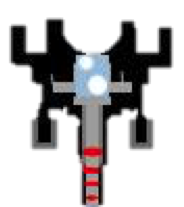
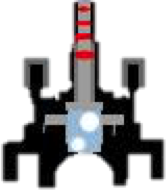
Added angle to vector2 method in DynamicEntity. Flipped enemyShip sprite.

diff --git a/core/src/com/mygdx/spacex/Ship.java b/core/src/com/mygdx/spacex/Ship.java
@@ -82,20 +82,9 @@ public abstract class Ship extends DynamicEntity {
 			// Get location of ship, and create a spawn point for shot.
 			Vector2 start = new Vector2(getX(), getY());
 			
-			// dirty fix for now, while i figure this out? ok?yea of course
-			// Pass in start point, velocity of the shot, and world it belongs to.
-			if (getClass() == Player.class) {
-				shots.add(new Shot(start, new Vector2(0, 1), shipType, batch, world));
-			}
-			if (getClass() == EnemyShip.class) {
-				Vector2 target = new Vector2();
-				target.x = getX() - world.get(0).getX();
-				target.y = getY() - world.get(0).getY();
-				shots.add(new Shot(start, target, shipType, batch, world));
-			}
-			// ok, figure this out tomorrow, ill research it lool
-			//math +poop there's some fun to it lmaao ok im gonna call it talk to u tomorrow
+			float rotation = getRotation() + 90f;
 			
+			shots.add(new Shot(start, rotation, shipType, batch, world));
 		
 			// Set shot ready to false to prevent spam.
 			shotReady = false;
@@ -111,7 +100,7 @@ public abstract class Ship extends DynamicEntity {
 			
 		}
 
-	}
+	} 
 	
 	@Override
 	protected void dispose() {

diff --git a/core/src/com/mygdx/spacex/Shot.java b/core/src/com/mygdx/spacex/Shot.java
@@ -8,6 +8,7 @@ import java.util.ArrayList;
 import com.badlogic.gdx.graphics.Texture;
 import com.badlogic.gdx.graphics.g2d.SpriteBatch;
 import com.badlogic.gdx.math.GeometryUtils;
+import com.badlogic.gdx.math.MathUtils;
 import com.badlogic.gdx.math.Rectangle;
 
 import com.badlogic.gdx.math.Vector2;
@@ -17,7 +18,7 @@ public class Shot extends DynamicEntity {
 	// 0: player shot, 1: enemy shot, .. etc.
 	protected int type;
 	
-	public Shot(Vector2 start, Vector2 target, int type, SpriteBatch batch, ArrayList<Entity> world)
+	public Shot(Vector2 start, float rotation, int type, SpriteBatch batch, ArrayList<Entity> world)
 	{
 		super(new Texture("laser.jpg"), start, batch, world);
 		horizontalSpeed = 10f;
@@ -25,9 +26,8 @@ public class Shot extends DynamicEntity {
 		
 		// Set the type of shot.
 		this.type = type;
-
-		velocity = target;
-		System.out.println(velocity.toString());
+		
+		setVelocityToAngle(rotation);
 		
 		// might change this later.
 		setScale(10f, 20f);

diff --git a/core/src/com/mygdx/spacex/DynamicEntity.java b/core/src/com/mygdx/spacex/DynamicEntity.java
@@ -10,6 +10,7 @@ import java.util.ArrayList;
 
 import com.badlogic.gdx.graphics.Texture;
 import com.badlogic.gdx.graphics.g2d.SpriteBatch;
+import com.badlogic.gdx.math.MathUtils;
 import com.badlogic.gdx.math.Vector2;
 
 public abstract class DynamicEntity extends Entity {
@@ -56,6 +57,13 @@ public abstract class DynamicEntity extends Entity {
 	protected void draw() {
 		// TODO Auto-generated method stub
 		super.draw();
+	}
+	
+	protected void setVelocityToAngle (float angle) {
+		// Set velocity towards an angle.
+		velocity.x = MathUtils.cos(angle * MathUtils.degreesToRadians);
+		velocity.y = MathUtils.sin(angle * MathUtils.degreesToRadians);
+		velocity.nor();
 	}
 	
 	

diff --git a/core/src/com/mygdx/spacex/Player.java b/core/src/com/mygdx/spacex/Player.java
@@ -35,7 +35,7 @@ public class Player extends Ship {
 				velocity.y = 1;
 			if (Gdx.input.isKeyPressed(Keys.DOWN))
 				velocity.y = -1;
-
+			
 			// Negate.
 			if (Gdx.input.isKeyPressed(Keys.LEFT) && Gdx.input.isKeyPressed(Keys.RIGHT))
 				velocity.x = 0;

diff --git a/core/src/com/mygdx/spacex/EnemyShip.java b/core/src/com/mygdx/spacex/EnemyShip.java
@@ -12,6 +12,8 @@ public class EnemyShip extends Ship {
 		horizontalSpeed = 2f;
 		verticalSpeed = 2f;
 		shotDelay = 1f;
+		// Flip the sprite.
+		rotate(180f);
 	}
 	
 	// AI logic to set movement data, almost like Player's input.
